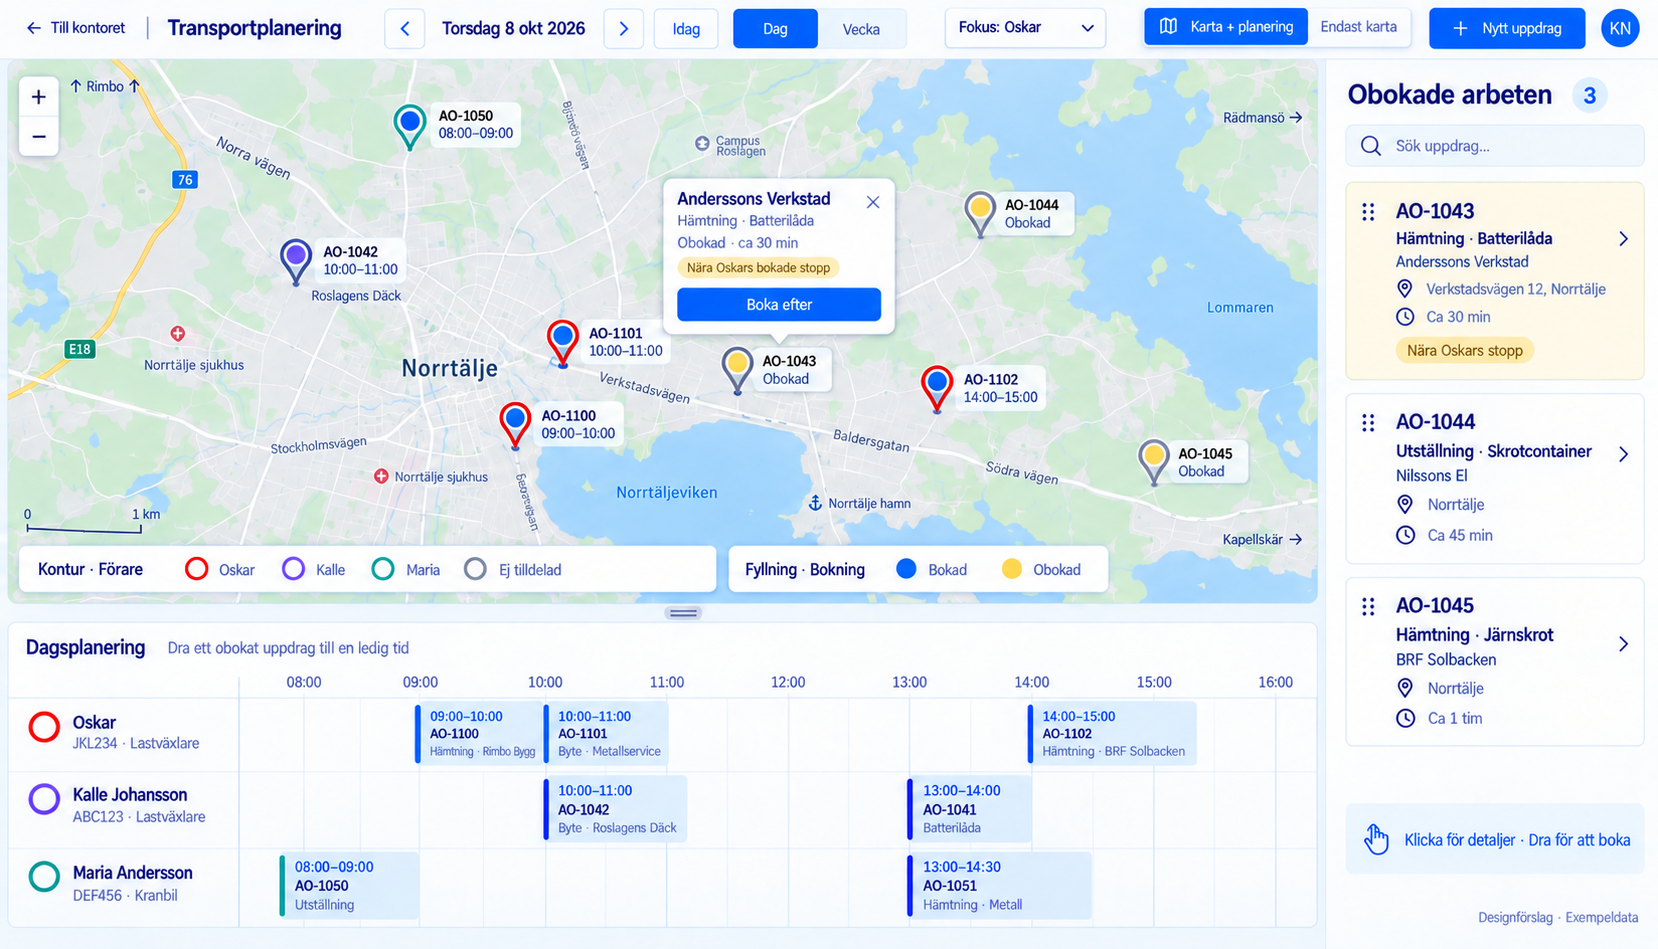
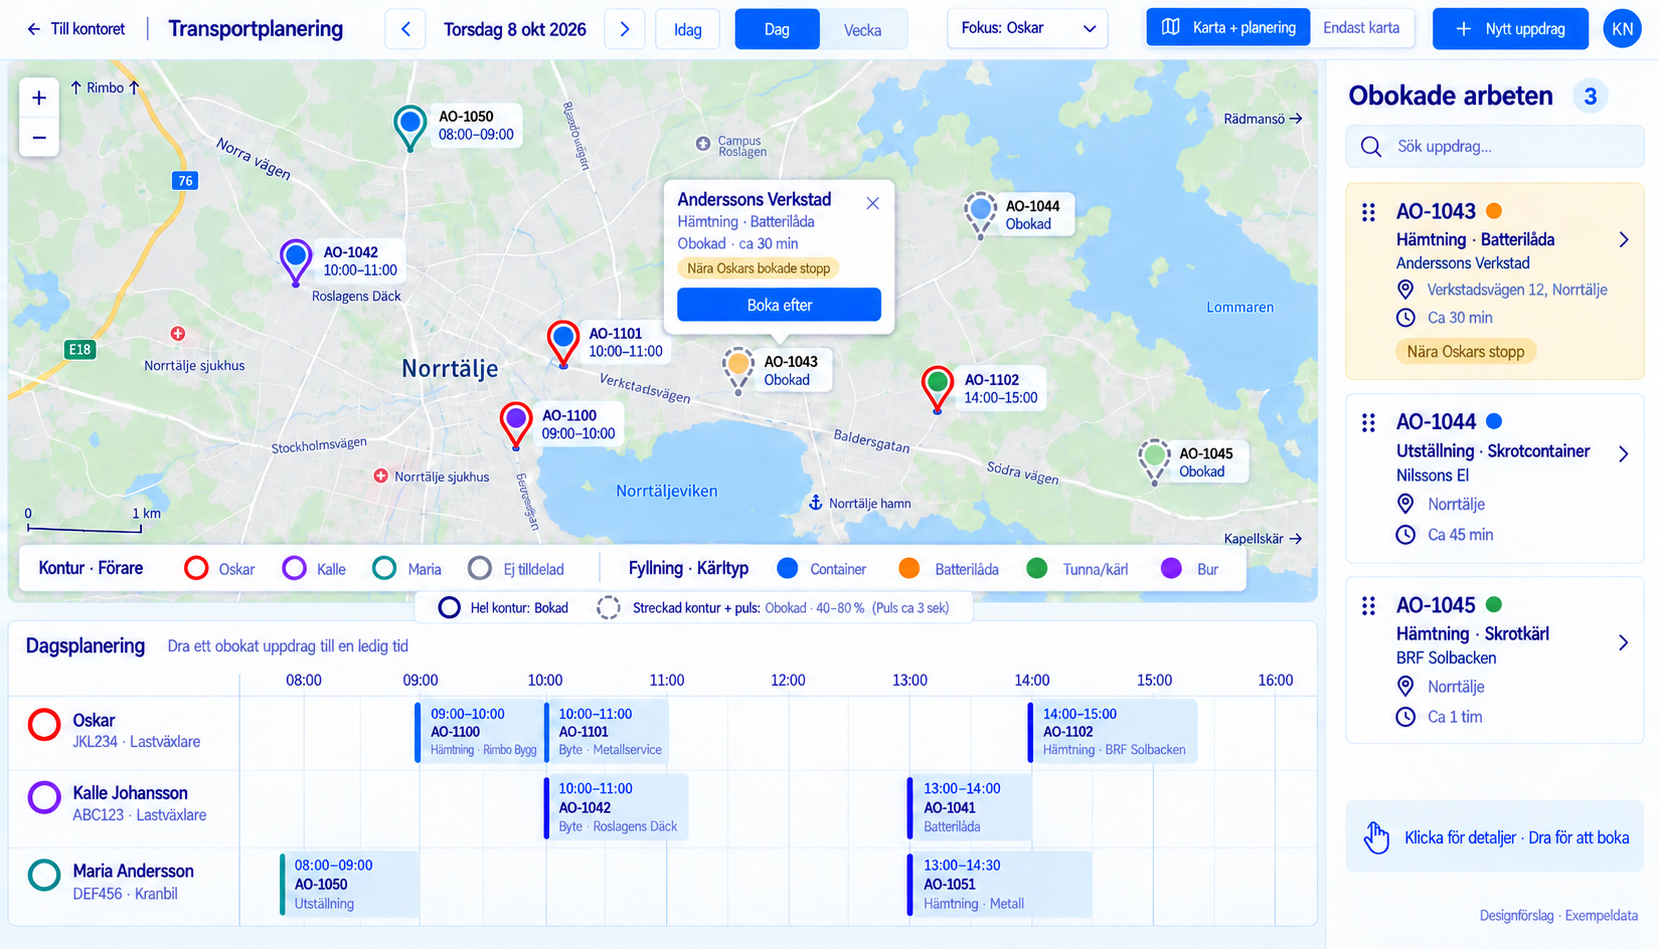
Update dispatch mockup with vessel colors and unbooked pulse design [skip render]

diff --git a/docs/mockups/kontor/README.md b/docs/mockups/kontor/README.md
@@ -207,19 +207,35 @@ dagsplanerare; gränsen mellan dem kan dras för att fördela ytan. Obokade
 arbeten ligger i högerkolumnen och kan dras till kalendern.
 
 Kartan följer vald period och visar både bokade uppdrag och obokade arbeten.
-Pinnålarnas två färger har skilda betydelser:
+Efter senaste återkopplingen visar konturen förare, fyllningen kärltyp och
+linjestil/rörelse bokningsstatus. Kärlfärgen behålls när ett uppdrag bokas:
 
 | Visuell del | Betydelse i exemplet |
 | --- | --- |
 | Ytterkontur | Förare: Oskar röd, Kalle lila, Maria turkos |
 | Grå ytterkontur | Ingen förare tilldelad |
-| Blå fyllning | Bokat uppdrag |
-| Gul fyllning | Obokat uppdrag |
+| Blå fyllning | Container |
+| Orange fyllning | Batterilåda |
+| Grön fyllning | Tunna/kärl |
+| Lila fyllning | Bur |
+| Hel kontur, full färg och stilla nål | Bokat uppdrag |
+| Streckad kontur och tonad/pulserande fyllning | Obokat uppdrag |
 
 En vit avgränsning skiljer konturen från fyllningen. Förarfärgerna återkommer
-vid kalenderns förarrader och förklaras separat från bokningsstatus. Kartan
-visar arbetsordrar; konturens röda färg betyder Oskar, inte försenat kärl.
-Namn och bokningsstatus ska också stå i uppdragsinformationen när den öppnas.
+vid kalenderns förarrader. Legendens tre delar förklarar förare, kärltyp
+och bokningsstatus separat. Kartan visar arbetsordrar; konturens röda färg
+betyder Oskar, inte försenat kärl. Namn, kärltyp och bokningsstatus ska också
+stå i uppdragsinformationen när den öppnas. Material och kärlets storlek
+visas i detaljerna. Exempelvis är AO-1045 ett skrotkärl med järnskrot som
+material; dess gröna fyllning betyder kärltyp, inte material.
+
+Planerad animation för obokade uppdrag: en mjuk cykel på cirka tre sekunder
+mellan 40 och 80 procents opacitet i fyllningen. Kontur och etiketter ligger
+kvar tydliga utan att pulsera; nålen ändrar inte storlek. Vid bokning stannar
+pulsen, fyllningen blir helt synlig och konturen blir hel. Med minskad
+rörelse används en stilla tonad fyllning och streckad kontur. PNG-mockupen
+visar en stillbild av det tonade läget, omkring 60 procent, med text som
+förklarar pulsen. Den innehåller ingen faktisk animation.
 
 Förarvalet heter **Fokus: Oskar**, eftersom andra förares uppdrag syns
 nedtonade medan Oskars och de otilldelade arbetena framhävs. Markering av
@@ -229,8 +245,9 @@ I detta exempel har Oskar fordon JKL234 och arbetsorder **AO-1101**,
 ett bokat byte hos Roslagens Metallservice på Verkstadsvägen 4 i Norrtälje
 kl. 10:00–11:00. Obokade **AO-1043** avser en batterilåda hos Anderssons
 Verkstad på Verkstadsvägen 12 och har uppskattad tidsåtgång 30 minuter.
-Den gula nålen ligger nära Oskars bokade stopp och har grå kontur eftersom
-uppdraget ännu saknar förare. Kortet finns kvar i kön och inte i kalendern.
+Den tonade orange nålen ligger nära Oskars bokade stopp och har streckad
+grå kontur eftersom uppdraget är obokat och ännu saknar förare. Kortet finns
+kvar i kön och inte i kalendern.
 **Boka efter** ska öppna ett förslag där tid, restid, förare och lämpligt
 fordon kontrolleras före bekräftelse. Närhet och tidsåtgång är exempeldata
 i denna mockup; automatisk ruttoptimering ingår inte i designbeslutet.
